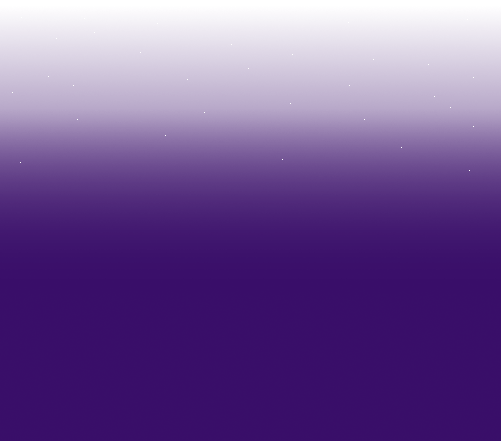
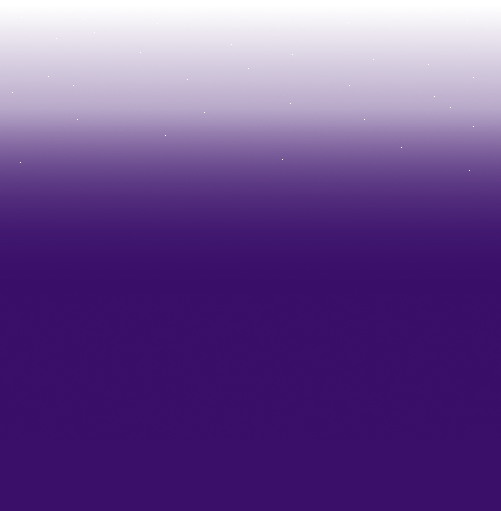
Now THAT looks better.

Changed region(s): [[0.0, 0.2358, 1.0, 0.4127]]

diff --git a/index.html b/index.html
@@ -261,20 +261,20 @@
       window.onscroll = function () {
 	cityz = window.innerHeight - city[0].clientHeight - document.getElementsByTagName ('footer')[0].clientHeight;
         parallax (inslide, slided, slidez);
-        parallax ([city[0]], -200 * window.innerHeight/700, cityz);
-        parallax ([city[1]], -400 * window.innerHeight/700, cityz);
-        parallax ([city[2]], -800 * window.innerHeight/700, cityz);
-        parallax ([city[3]], -1600 * window.innerHeight/700, cityz);
+        parallax ([city[0]], -10 * window.innerHeight/700, cityz);
+        parallax ([city[1]], -800 * window.innerHeight/700, cityz);
+        parallax ([city[2]], -400 * window.innerHeight/700, cityz);
+        parallax ([city[3]], -200 * window.innerHeight/700, cityz);
 	//resizeCity ();
         //sectionResize ();
       };
       window.onresize = function () {
 	cityz = window.innerHeight - 441 - 34
         parallax (inslide, slided, slidez);
-        parallax ([city[0]], -200, cityz);
-        parallax ([city[1]], -400, cityz);
-        parallax ([city[2]], -800, cityz);
-        parallax ([city[3]], -1600, cityz);
+        parallax ([city[0]], -10, cityz);
+        parallax ([city[1]], -800, cityz);
+        parallax ([city[2]], -400, cityz);
+        parallax ([city[3]], -200, cityz);
         sectionResize ();
 	navFix ();
 	//resizeCity ();

diff --git a/css/home.css b/css/home.css
@@ -124,7 +124,7 @@ section:nth-child(2) article:nth-child(2) {
 .cityscape {
   position: absolute;
   bottom: 0; left: 0; right: 0;
-  min-height: 441px;
+  min-height: 511px;
   z-index: -1;
 }
 
